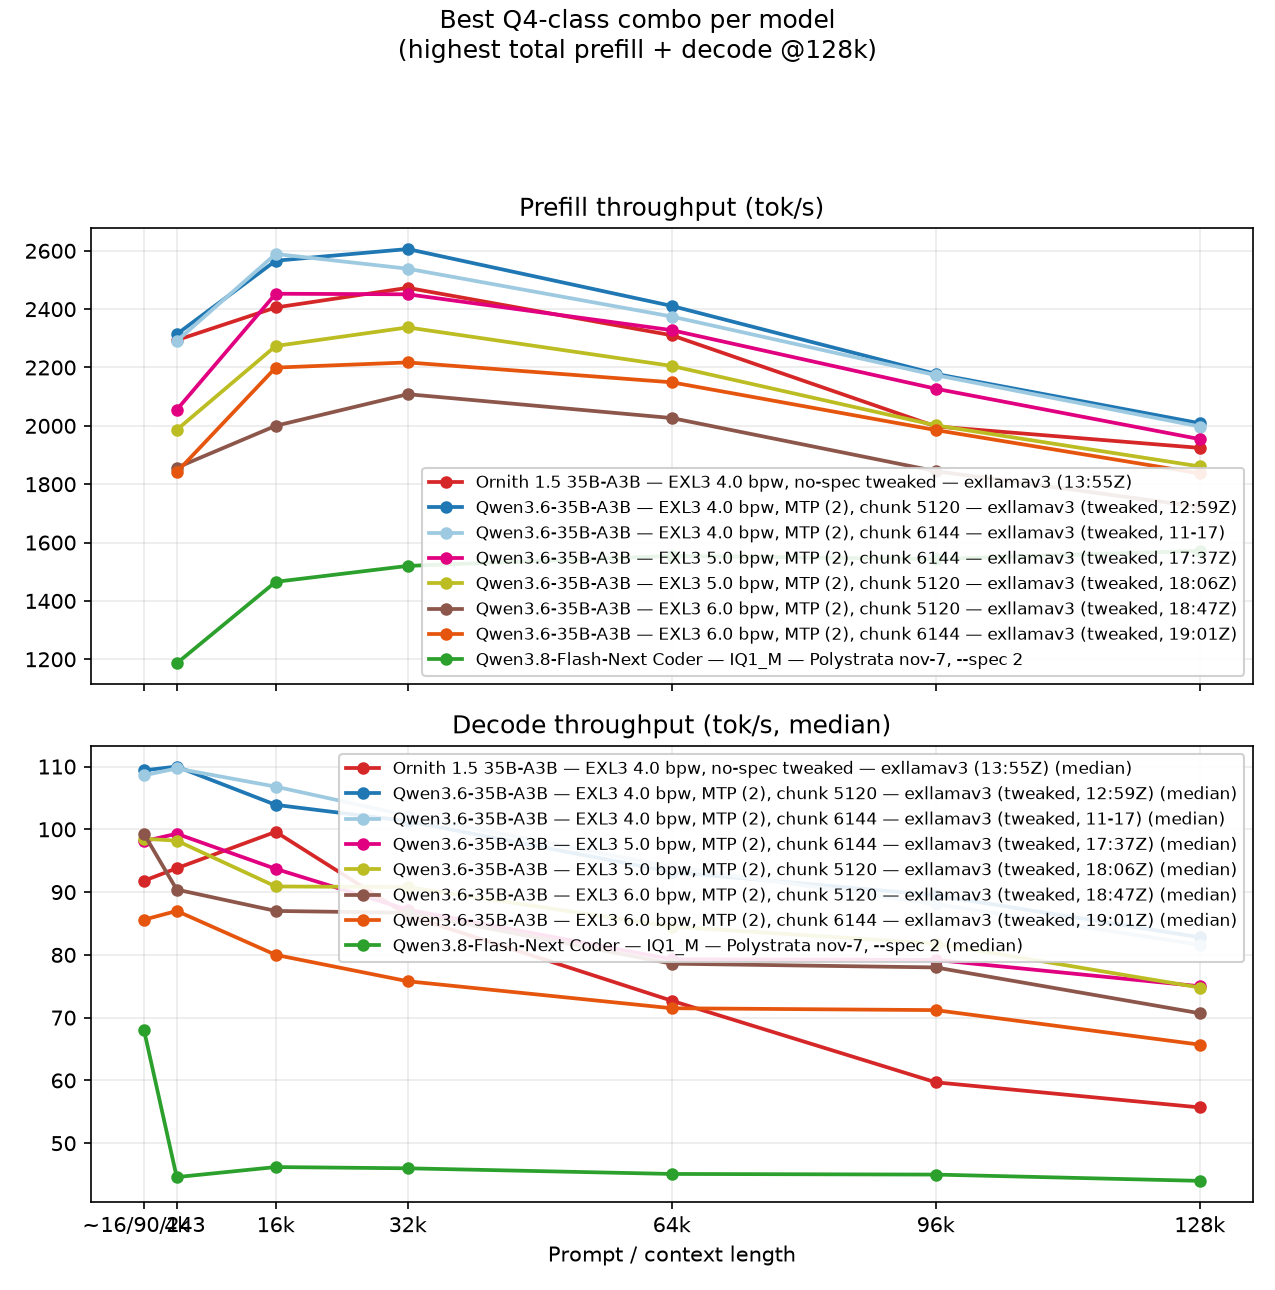
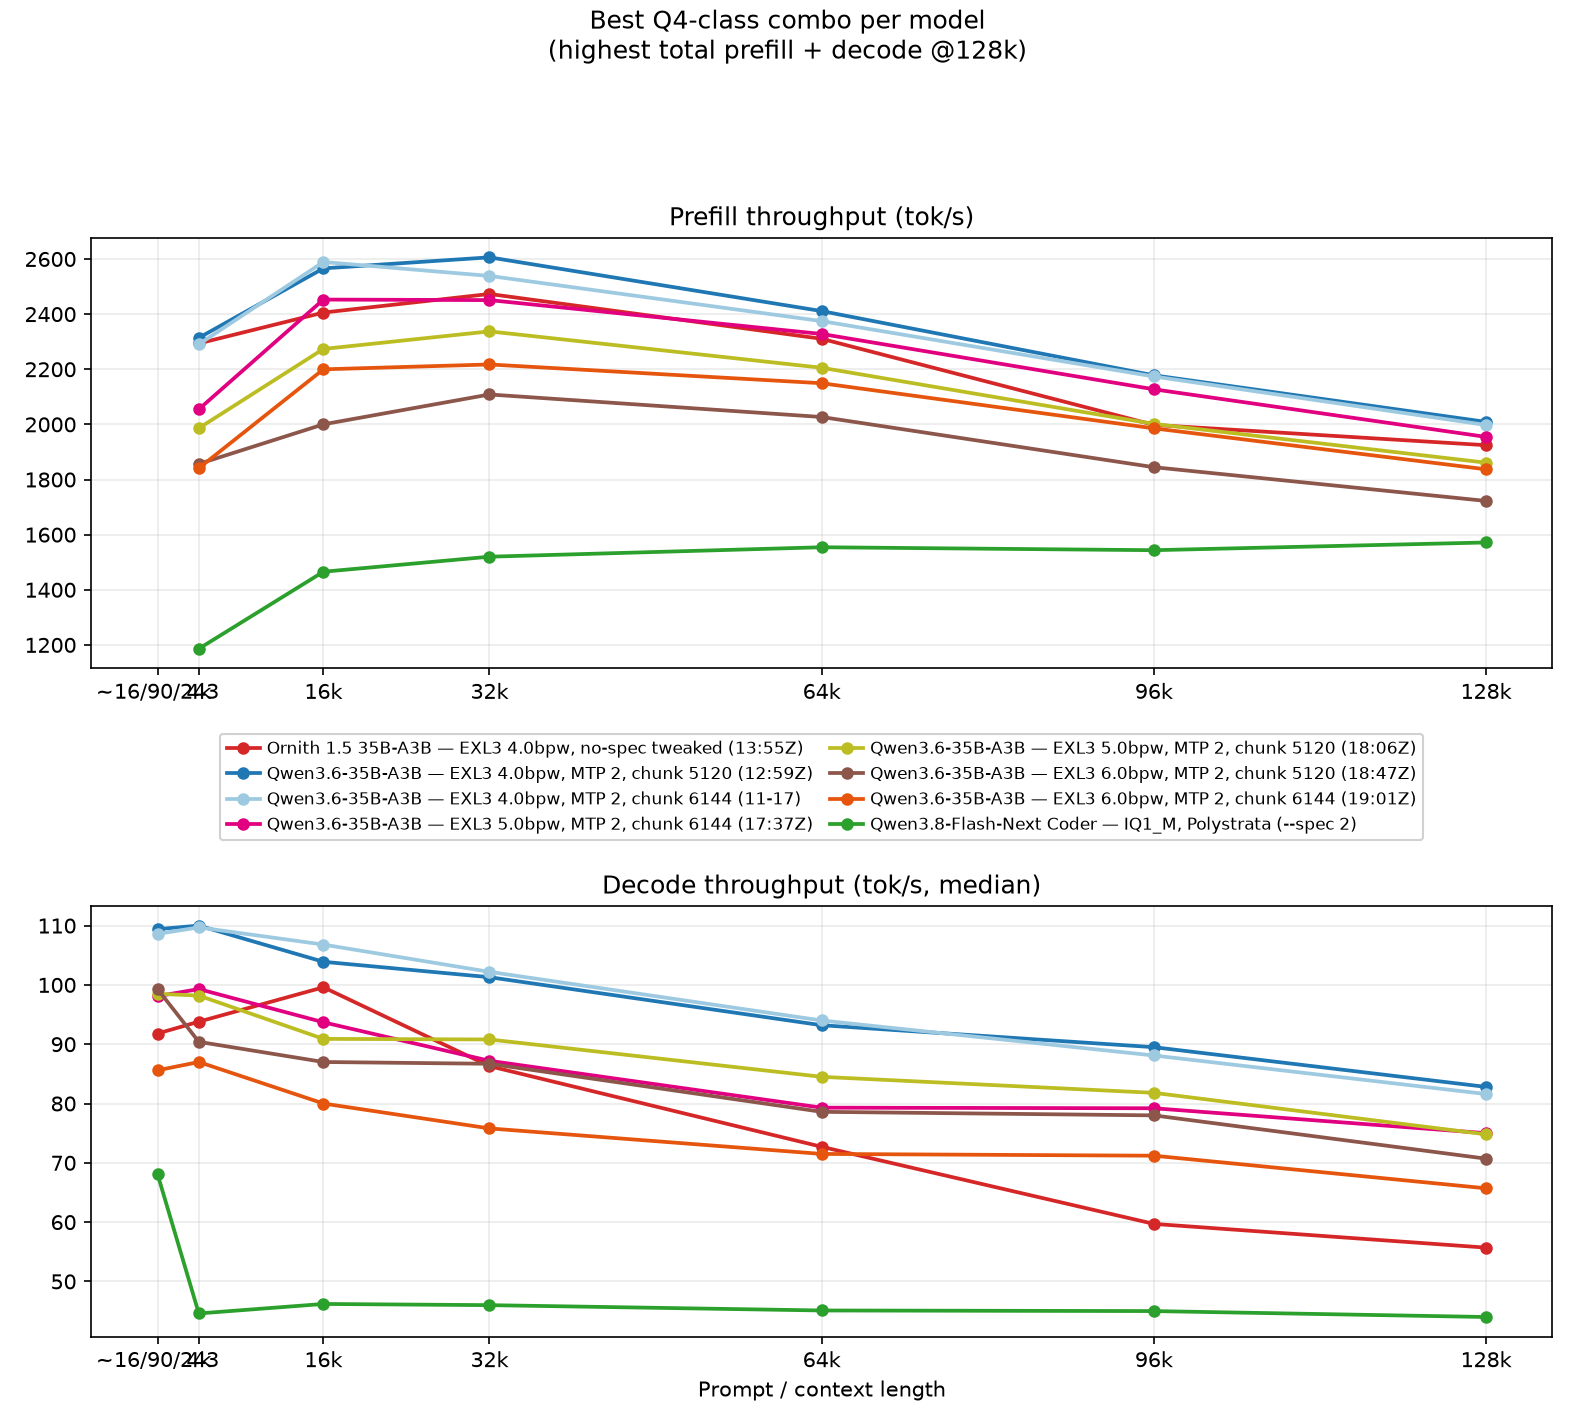
fix legend box

Changed region(s): [[0.0, 0.124, 1.0, 0.9922], [0.3059, 0.0, 0.6729, 0.062], [0.1529, 0.4031, 0.2141, 0.4341]]

diff --git a/plots/best_q4_128k.py b/plots/best_q4_128k.py
@@ -26,7 +26,7 @@ RUNS = [
         # (FULL RUN 13:55Z; 96k/128k decode on 2 runs each — see
         # ornith-1-5-tweaks.md). Beats old DFlash2 winner 1168 + 57.3 = 1725
         # by 1924.5 + 55.7 = 2480.
-        "label": "Ornith 1.5 35B-A3B — EXL3 4.0 bpw, no-spec tweaked — exllamav3 (13:55Z)",
+        "label": "Ornith 1.5 35B-A3B — EXL3 4.0bpw, no-spec tweaked (13:55Z)",
         "color": "#d62728",
         "prefill": [2293.7, 2405.7, 2473.1, 2310.5, 1998.1, 1924.5],
         "decode": [91.8, 93.8, 99.6, 86.3, 72.7, 59.7, 55.7],
@@ -35,7 +35,7 @@ RUNS = [
         # Qwen3.6 winner: EXL3 4.0 bpw, MTP (2 draft tokens, no external
         # drafter) on the tweaked baseline, chunk 5120 (12:59Z FULL RUN)
         # 128k total 2 009 + 82.8 = 2 092.
-        "label": "Qwen3.6-35B-A3B — EXL3 4.0 bpw, MTP (2), chunk 5120 — exllamav3 (tweaked, 12:59Z)",
+        "label": "Qwen3.6-35B-A3B — EXL3 4.0bpw, MTP 2, chunk 5120 (12:59Z)",
         "color": "#1f77b4",
         "prefill": [2314, 2566, 2606, 2411, 2178, 2009],
         "decode": [109.4, 110.0, 103.9, 101.3, 93.2, 89.5, 82.8],
@@ -43,7 +43,7 @@ RUNS = [
     {
         # 2026-11-17 re-run of the tweaked baseline with chunk 6144 —
         # within ~2% of the winner everywhere (128k total 2 079), not a win.
-        "label": "Qwen3.6-35B-A3B — EXL3 4.0 bpw, MTP (2), chunk 6144 — exllamav3 (tweaked, 11-17)",
+        "label": "Qwen3.6-35B-A3B — EXL3 4.0bpw, MTP 2, chunk 6144 (11-17)",
         "color": "#9ecae1",
         "prefill": [2290.7, 2589.1, 2538.6, 2374.7, 2173.8, 1997.7],
         "decode": [108.6, 109.7, 106.8, 102.2, 94.0, 88.1, 81.6],
@@ -53,7 +53,7 @@ RUNS = [
         # "5120" but 6144 was used), 2026-11-17 17:37Z. 128k total
         # 1 955 + 75.0 ≈ 2 029.6 < 2 092, so the 4.0 bpw run stays the win.
         # See QWEN3.6-35B-A3B.md for the section + Δ vs the 4.0 bpw winner.
-        "label": "Qwen3.6-35B-A3B — EXL3 5.0 bpw, MTP (2), chunk 6144 — exllamav3 (tweaked, 17:37Z)",
+        "label": "Qwen3.6-35B-A3B — EXL3 5.0bpw, MTP 2, chunk 6144 (17:37Z)",
         "color": "#e00080",
         "prefill": [2054.9, 2452.8, 2450.9, 2328.0, 2127.3, 1954.6],
         "decode": [98.1, 99.3, 93.7, 87.2, 79.3, 79.2, 75.0],
@@ -63,7 +63,7 @@ RUNS = [
         # its behavior, 18:06Z). Decode is clearly better than chunk 6144
         # from 32k to 96k (+4 to +7%), prefill ~4-7% lower. 128k total
         # 1 861 + 74.8 = 1 936 — not a win.
-        "label": "Qwen3.6-35B-A3B — EXL3 5.0 bpw, MTP (2), chunk 5120 — exllamav3 (tweaked, 18:06Z)",
+        "label": "Qwen3.6-35B-A3B — EXL3 5.0bpw, MTP 2, chunk 5120 (18:06Z)",
         "color": "#bcbd22",
         "prefill": [1986.2, 2273.7, 2337.4, 2205.4, 2001.7, 1861.0],
         "decode": [98.5, 98.2, 90.9, 90.8, 84.5, 81.8, 74.8],
@@ -72,7 +72,7 @@ RUNS = [
         # 11-17 Q6 tweaked full run, chunk 5120 (tag-genuine, 18:47Z).
         # Prefill ~15-20% below the 4.0 bpw winner; decode ~9-18% below.
         # 128k total 1 722 + 70.7 = 1 793 — not a win.
-        "label": "Qwen3.6-35B-A3B — EXL3 6.0 bpw, MTP (2), chunk 5120 — exllamav3 (tweaked, 18:47Z)",
+        "label": "Qwen3.6-35B-A3B — EXL3 6.0bpw, MTP 2, chunk 5120 (18:47Z)",
         "color": "#8c564b",
         "prefill": [1856.7, 2000.2, 2108.5, 2026.8, 1844.7, 1722.3],
         "decode": [99.3, 90.4, 87.0, 86.7, 78.6, 78.0, 70.7],
@@ -83,14 +83,14 @@ RUNS = [
         # decode notably slower (−4 to −16%), especially on longer runs.
         # 128k total 1 902.7 — still below the 4.0 bpw winner, but best Q6
         # combo for this chart.
-        "label": "Qwen3.6-35B-A3B — EXL3 6.0 bpw, MTP (2), chunk 6144 — exllamav3 (tweaked, 19:01Z)",
+        "label": "Qwen3.6-35B-A3B — EXL3 6.0bpw, MTP 2, chunk 6144 (19:01Z)",
         "color": "#e6550d",
         "prefill": [1841.3, 2199.7, 2217.4, 2149.3, 1985.6, 1837.0],
         "decode": [85.6, 87.0, 80.0, 75.8, 71.5, 71.2, 65.7],
     },
     {
         # QFN Coder (only run): Polystrata nov-7, --spec 2
-        "label": "Qwen3.8-Flash-Next Coder — IQ1_M — Polystrata nov-7, --spec 2",
+        "label": "Qwen3.8-Flash-Next Coder — IQ1_M, Polystrata (--spec 2)",
         "color": "#2ca02c",
         "prefill": [1186.1, 1465.5, 1520.0, 1554.3, 1543.6, 1571.6],
         "decode": [68.1, 44.6, 46.2, 46.0, 45.1, 45.0, 44.0],
@@ -99,7 +99,14 @@ RUNS = [
 
 
 def main():
-    fig, (ax_pre, ax_dec) = plt.subplots(2, 1, figsize=(8.5, 8.6), sharex=True)
+    # Three-row grid: prefill on top, shared legend in its own band in the
+    # middle, decode below — so the legend never covers a plot.
+    fig = plt.figure(figsize=(10.5, 9.5))
+    gs = fig.add_gridspec(3, 1, height_ratios=[1, 0.28, 1])
+    ax_pre = fig.add_subplot(gs[0])
+    ax_dec = fig.add_subplot(gs[2], sharex=ax_pre)
+    ax_leg = fig.add_subplot(gs[1])
+    ax_leg.axis("off")
 
     for r in RUNS:
         ax_pre.plot(prefill_x, r["prefill"], marker="o", color=r["color"],
@@ -109,13 +116,19 @@ def main():
 
     ax_pre.set_title("Prefill throughput (tok/s)")
     ax_pre.grid(True, alpha=0.25)
-    ax_pre.legend(loc="lower right", fontsize=8, framealpha=0.9)
 
     ax_dec.set_title("Decode throughput (tok/s, median)")
     ax_dec.grid(True, alpha=0.25)
     ax_dec.set_xticks(decode_x, decode_ticks)
     ax_dec.set_xlabel("Prompt / context length")
-    ax_dec.legend(loc="upper right", fontsize=8, framealpha=0.9)
+
+    # One shared legend between the two graphs (prefill labels; the decode
+    # titles already say the values are medians).
+    handles, labels = ax_pre.get_legend_handles_labels()
+    ax_leg.legend(
+        handles, labels, loc="center", ncol=2, fontsize=8,
+        framealpha=0.9, borderpad=0.4, handletextpad=0.4, columnspacing=1.0,
+    )
 
     fig.suptitle(
         "Best Q4-class combo per model\n(highest total prefill + decode @128k)",
